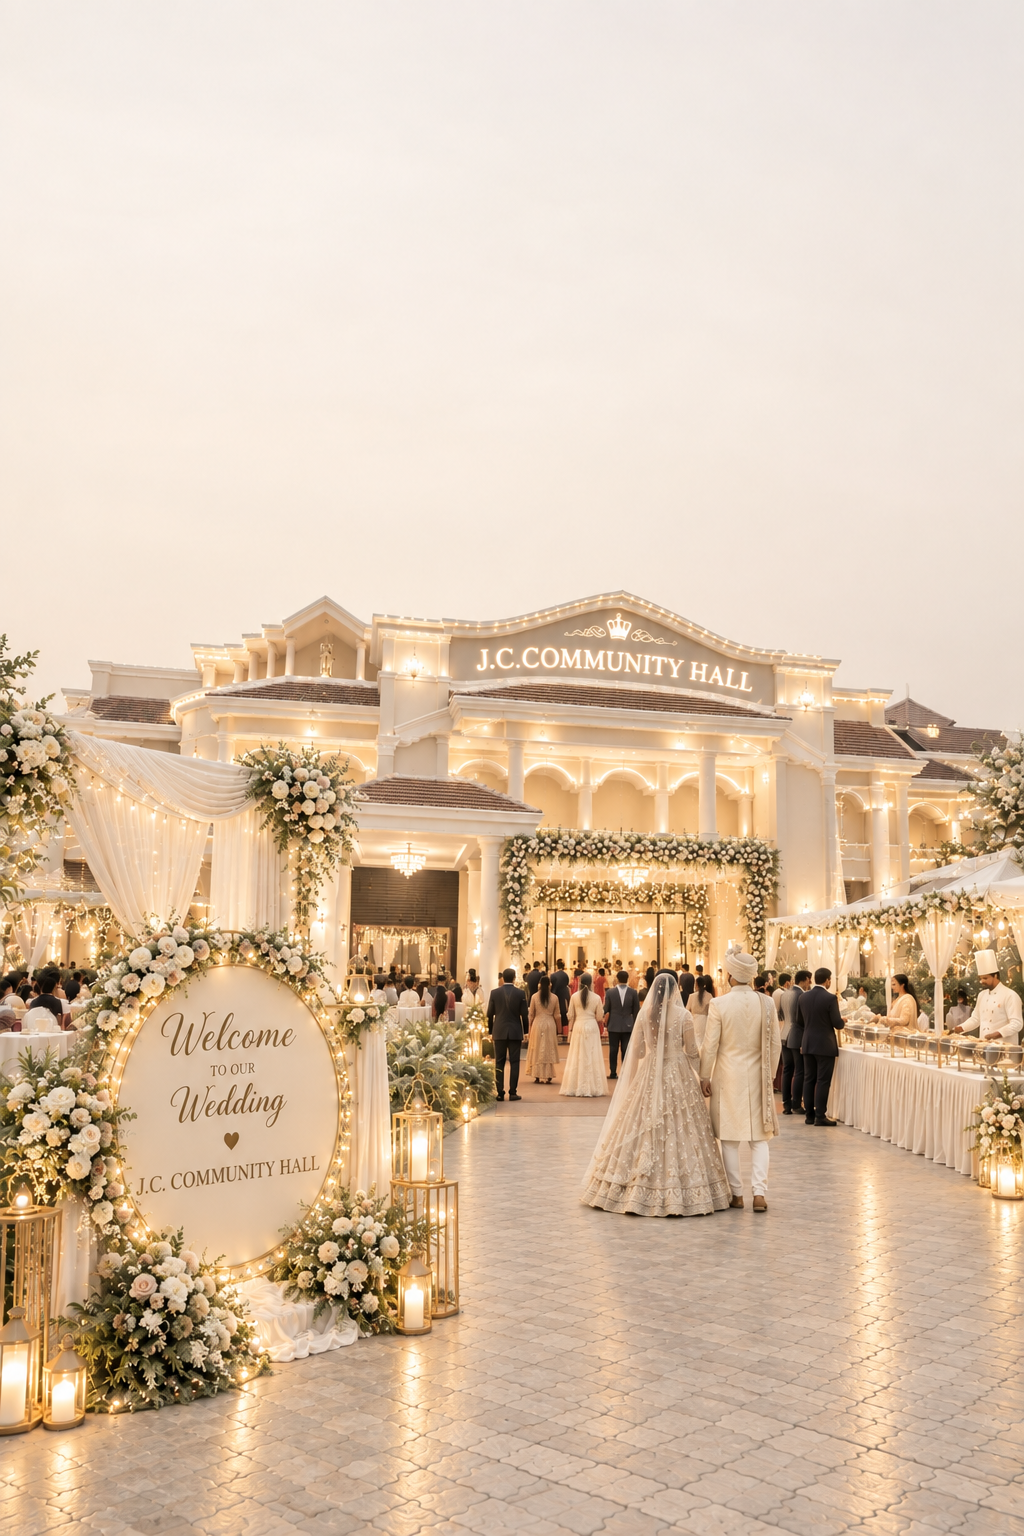
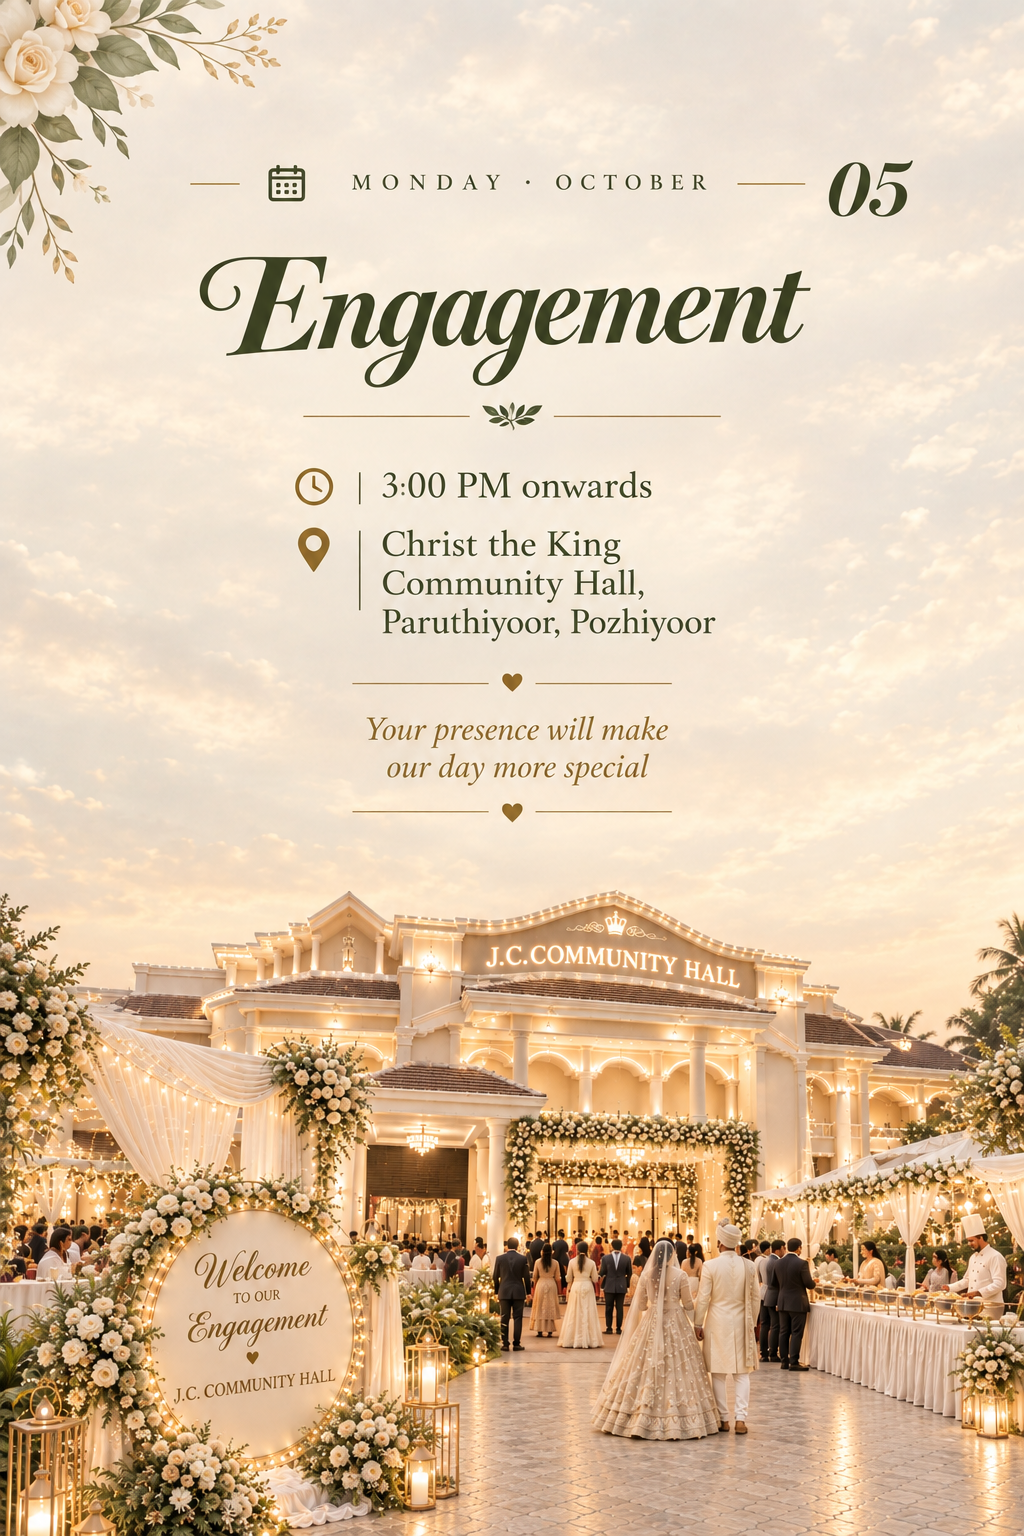
Initial commit

diff --git a/src/styles.css b/src/styles.css
@@ -1594,38 +1594,14 @@ a {
     0 6px 14px 0 rgba(0, 0, 0, 0.35);
 }
 
-/* ── OVERLAYS PER EVENT ── */
-
-/* Event 1 — Engagement Overlay */
+/* Event 1 — Engagement: No overlay — image shows fully crisp */
 .event-list article.event-engagement::before {
-  content: "";
-  position: absolute;
-  inset: 0;
-  z-index: 1;
-  background: linear-gradient(
-    180deg,
-    rgba(27, 15, 25, 0.22) 0%,
-    rgba(27, 15, 25, 0.38) 35%,
-    rgba(16, 10, 18, 0.72) 68%,
-    rgba(5, 7, 13, 0.92) 100%
-  );
-  transition: opacity 0.3s ease;
+  content: none;
 }
 
-/* Event 2 — Wedding Overlay */
+/* Event 2 — Wedding: No overlay — image shows fully crisp */
 .event-list article.event-wedding::before {
-  content: "";
-  position: absolute;
-  inset: 0;
-  z-index: 1;
-  background: linear-gradient(
-    180deg,
-    rgba(4, 15, 35, 0.22) 0%,
-    rgba(4, 15, 35, 0.34) 30%,
-    rgba(4, 10, 24, 0.70) 65%,
-    rgba(2, 6, 15, 0.93) 100%
-  );
-  transition: opacity 0.3s ease;
+  content: none;
 }
 
 /* Event 3 — Reception: No overlay — image shows fully crisp */
@@ -1633,7 +1609,9 @@ a {
   content: none;
 }
 
-/* Reception card — real <img> fills the card, no background tricks */
+/* All three event cards — real <img> fills the card, no background tricks */
+.event-list article.event-card.event-engagement,
+.event-list article.event-card.event-wedding,
 .event-list article.event-card.event-reception {
   min-height: unset;
   aspect-ratio: unset;
@@ -1653,16 +1631,6 @@ a {
   border-radius: 10px;
 }
 
-/* Button floats over the bottom of the image */
-.event-reception .event-card-btn-wrapper {
-  position: absolute;
-  bottom: 16px;
-  left: 0;
-  right: 0;
-  padding: 0 18px;
-  margin-top: 0;
-  padding-top: 0;
-}
 
 /* Top-Right Event Number (Cinzel Font) */
 .event-card-number {
@@ -1807,14 +1775,16 @@ a {
 
 /* ── REDESIGNED VIEW MAP BUTTON — 3D TACTILE LUXURY BUTTON (NO GOLD BORDER) ── */
 .event-card-btn-wrapper {
-  position: relative;
+  position: absolute;
+  bottom: 16px;
+  left: 0;
+  right: 0;
   z-index: 4;
   width: 100%;
   display: flex;
   justify-content: center;
-  margin-top: auto;
-  padding-top: 0.8rem;
-  padding-bottom: 2px;
+  padding: 0 18px;
+  margin-top: 0;
 }
 
 .event-card .event-map-btn {
@@ -1837,55 +1807,36 @@ a {
   user-select: none;
 }
 
-/* 3D Color gradients & Bevel shadows per event */
-.event-engagement .event-map-btn {
-  background: linear-gradient(180deg, #4A2432 0%, #29121B 100%);
-  box-shadow: 0 4px 0 #180A10, 0 8px 20px rgba(0, 0, 0, 0.55), inset 0 1px 1px rgba(255, 255, 255, 0.3);
-}
-
-.event-wedding .event-map-btn {
-  background: linear-gradient(180deg, #1E462B 0%, #0E2617 100%);
-  box-shadow: 0 4px 0 #07150C, 0 8px 20px rgba(0, 0, 0, 0.55), inset 0 1px 1px rgba(255, 255, 255, 0.3);
-}
-
-/* Reception — Forest Green Button */
+/* All 3 cards — unified Forest Green reception-style button */
+.event-engagement .event-map-btn,
+.event-wedding .event-map-btn,
 .event-reception .event-map-btn {
   background: linear-gradient(180deg, #2e6640 0%, #1a3d26 100%);
   box-shadow: 0 5px 0 #0d2015, 0 10px 24px rgba(0, 0, 0, 0.55), inset 0 1px 1px rgba(255, 255, 255, 0.25);
   font-family: "Cormorant Garamond", "Bodoni Moda", serif;
   font-style: italic;
-  font-size: 1.05rem;
+  font-size: 1rem;
   font-weight: 600;
-  letter-spacing: 0.08em;
+  letter-spacing: 0.06em;
   text-transform: none;
-  padding: 0 1.6rem;
-  min-height: 42px;
+  padding: 0 1.4rem;
+  min-height: 38px;
 }
 
-.event-engagement .event-map-btn svg { color: #F5D082; width: 1.1rem; height: 1.1rem; filter: drop-shadow(0 1px 2px rgba(0,0,0,0.5)); }
-.event-wedding .event-map-btn svg { color: #F5D082; width: 1.1rem; height: 1.1rem; filter: drop-shadow(0 1px 2px rgba(0,0,0,0.5)); }
-.event-reception .event-map-btn svg { color: #a8e6bc; width: 1rem; height: 1rem; filter: drop-shadow(0 1px 2px rgba(0,0,0,0.5)); }
+.event-engagement .event-map-btn svg,
+.event-wedding .event-map-btn svg,
+.event-reception .event-map-btn svg { color: #a8e6bc; width: 0.95rem; height: 0.95rem; filter: drop-shadow(0 1px 2px rgba(0,0,0,0.5)); }
 
-/* 3D Hover elevation state */
-.event-engagement .event-map-btn:hover {
-  transform: translateY(-2px);
-  background: linear-gradient(180deg, #572B3B 0%, #331722 100%) !important;
-  box-shadow: 0 6px 0 #180A10, 0 12px 26px rgba(0, 0, 0, 0.65), inset 0 1px 1px rgba(255, 255, 255, 0.4);
-}
-
-.event-wedding .event-map-btn:hover {
-  transform: translateY(-2px);
-  background: linear-gradient(180deg, #245434 0%, #12331F 100%) !important;
-  box-shadow: 0 6px 0 #07150C, 0 12px 26px rgba(0, 0, 0, 0.65), inset 0 1px 1px rgba(255, 255, 255, 0.4);
-}
-
+/* Hover — lift all three */
+.event-engagement .event-map-btn:hover,
+.event-wedding .event-map-btn:hover,
 .event-reception .event-map-btn:hover {
   transform: translateY(-2px);
   background: linear-gradient(180deg, #38794d 0%, #224f32 100%) !important;
   box-shadow: 0 7px 0 #0d2015, 0 14px 30px rgba(0, 0, 0, 0.65), inset 0 1px 1px rgba(255, 255, 255, 0.35);
 }
 
-/* 3D Active click press down state */
+/* Active press-down state */
 .event-card .event-map-btn:active {
   transform: translateY(2px) !important;
   box-shadow: 0 2px 0 rgba(0, 0, 0, 0.8), 0 4px 10px rgba(0, 0, 0, 0.4), inset 0 1px 2px rgba(0, 0, 0, 0.4) !important;
@@ -1899,7 +1850,9 @@ a {
     border-radius: 10px;
   }
 
-  /* Reception uses real img — no padding, no fixed height */
+  /* All 3 cards use real img — no padding, no fixed height */
+  .event-list article.event-card.event-engagement,
+  .event-list article.event-card.event-wedding,
   .event-list article.event-card.event-reception {
     min-height: unset;
     padding: 0;

diff --git a/src/components/WeddingInvitation.tsx b/src/components/WeddingInvitation.tsx
@@ -631,7 +631,6 @@ export function WeddingInvitation() {
               {/* Engagement Card */}
               <article
                 className="event-card event-engagement"
-                style={{ backgroundImage: `url(${engagementImage})` }}
                 data-reveal
                 onClick={() => window.open("https://www.google.com/maps/search/?api=1&query=Christ+the+King+Parish+Hall+Paruthiyoor+Pozhiyoor", "_blank", "noopener,noreferrer")}
               >
@@ -642,31 +641,14 @@ export function WeddingInvitation() {
                   rel="noreferrer"
                   aria-label="Open Engagement venue on Google Maps"
                 />
-                <span className="event-card-number">01</span>
-                
-                <div className="event-card-body">
-                  <div className="event-date-row">
-                    <CalendarDays className="event-date-icon" />
-                    <span className="event-date-label">MONDAY · OCTOBER</span>
-                  </div>
-                  <div className="event-date-day">5</div>
-                  
-                  <h3 className="event-card-title">Engagement</h3>
-                  
-                  <div className="event-card-divider">
-                    <span className="event-card-divider-line" />
-                    <span className="event-card-divider-diamond">❖</span>
-                    <span className="event-card-divider-line" />
-                  </div>
-                  
-                  <p className="event-card-time-venue">
-                    3:00 in the Evening · Christ the King Community Hall, Paruthiyoor, Pozhiyoor
-                  </p>
-                  
-                  <p className="event-card-description">
-                    An evening of blessings, laughter &amp; celebration
-                  </p>
-                </div>
+
+                {/* Full image — no crop, no letterbox */}
+                <img
+                  src={engagementImage}
+                  alt="Engagement venue"
+                  className="reception-full-img"
+                  loading="lazy"
+                />
 
                 <div className="event-card-btn-wrapper">
                   <Button
@@ -679,7 +661,7 @@ export function WeddingInvitation() {
                       target="_blank"
                       rel="noreferrer"
                     >
-                      <MapPin className="mr-2 h-4 w-4" /> View Map
+                      <Navigation className="mr-2 h-4 w-4" /> View Route
                     </a>
                   </Button>
                 </div>
@@ -688,7 +670,6 @@ export function WeddingInvitation() {
               {/* Wedding Card */}
               <article
                 className="event-card event-wedding"
-                style={{ backgroundImage: `url(${weddingImage})` }}
                 data-reveal
                 onClick={() => window.open("https://www.google.com/maps/search/?api=1&query=St.+John+of+the+Cross+Church+Siluvaipuram", "_blank", "noopener,noreferrer")}
               >
@@ -699,31 +680,14 @@ export function WeddingInvitation() {
                   rel="noreferrer"
                   aria-label="Open Wedding venue on Google Maps"
                 />
-                <span className="event-card-number">02</span>
-                
-                <div className="event-card-body">
-                  <div className="event-date-row">
-                    <CalendarDays className="event-date-icon" />
-                    <span className="event-date-label">WEDNESDAY · OCTOBER</span>
-                  </div>
-                  <div className="event-date-day">7</div>
-                  
-                  <h3 className="event-card-title">Wedding</h3>
-                  
-                  <div className="event-card-divider">
-                    <span className="event-card-divider-line" />
-                    <span className="event-card-divider-diamond">❖</span>
-                    <span className="event-card-divider-line" />
-                  </div>
-                  
-                  <p className="event-card-time-venue">
-                    11:00 in the Morning · St. John of the Cross Church, Siluvaipuram
-                  </p>
-                  
-                  <p className="event-card-description">
-                    Sacred ceremony &amp; solemn vows
-                  </p>
-                </div>
+
+                {/* Full image — no crop, no letterbox */}
+                <img
+                  src={weddingImage}
+                  alt="Wedding venue"
+                  className="reception-full-img"
+                  loading="lazy"
+                />
 
                 <div className="event-card-btn-wrapper">
                   <Button
@@ -736,7 +700,7 @@ export function WeddingInvitation() {
                       target="_blank"
                       rel="noreferrer"
                     >
-                      <MapPin className="mr-2 h-4 w-4" /> View Map
+                      <Navigation className="mr-2 h-4 w-4" /> View Route
                     </a>
                   </Button>
                 </div>
